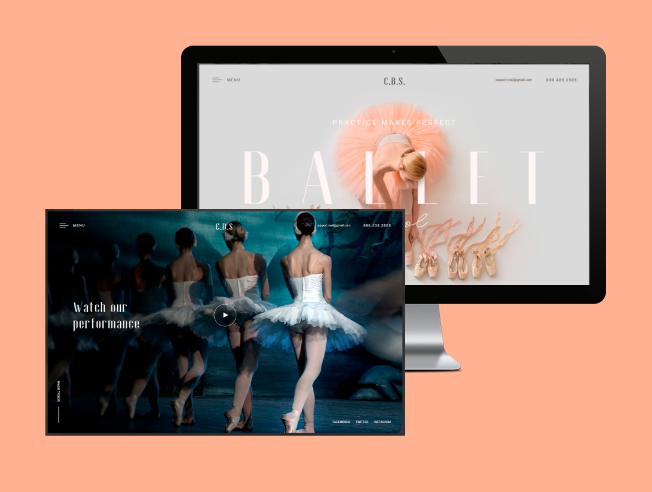
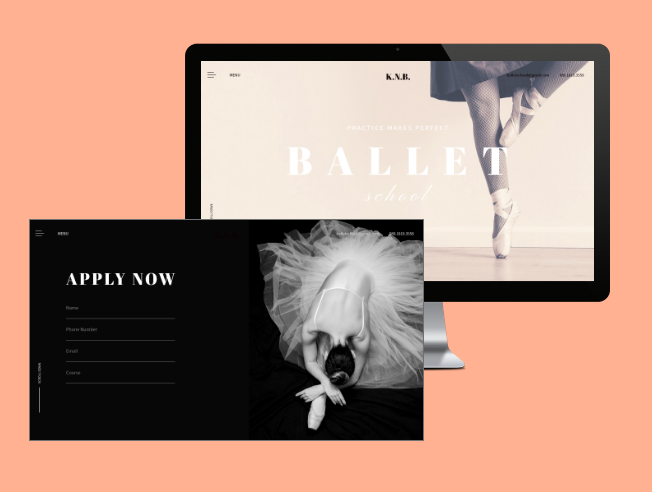
작업물 링크 수정

diff --git a/works.html b/works.html
@@ -50,7 +50,7 @@
                             <p class="explain">#html5&css3	#standard</p>
                         </div>
                     </div>
-                    <div class="box" onclick="window.open('images/works-HD.jpg','이미지','width=800, height=700,toolbar=no,directories=no,location=no,status=no,menubar=no,scrollbars=yes,resizable=yes,left=100px')">
+                    <div class="box" onclick="window.open('https://harteh.github.io/harley-davidson/')">
                         <div class="bgi"><img src="images/works-006.png" alt="할리데이비슨"></div>
                         <div class="txtTitle">
                             <p class="fn">design</p>
@@ -60,15 +60,15 @@
                     </div>
                 </div>
                 <div class="content">
-                    <div class="box">
+                    <div class="box" onclick="window.open('https://harteh.github.io/KNB/')">
                         <div class="bgi"><img src="images/works-001.png" alt="발레교습소"></div>
                         <div class="txtTitle">
                             <p class="fn">renewal</p>
                             <p class="heading">Black Swan Dance</p>
-                            <p class="explain">#html5&css3 #responsive</p>
+                            <p class="explain">#진행중 #html5&css3 #responsive</p>
                         </div>                        
                     </div>
-                    <div class="box" onclick="window.open('https://wwf-team.github.io/WWF/')">                        
+                    <div class="box" onclick="window.open('https://harteh.github.io/wwf-b/')">                        
                         <div class="bgi"><img src="images/works-002.png" alt="세계자연기금"></div>
                         <div class="txtTitle">
                             <p class="fn">team work</p>

diff --git a/css/style.css b/css/style.css
@@ -135,7 +135,7 @@ p.mail{
 
 
 #main-left{
-    height: 970px;
+    height: 100%;
     position: fixed;
     left: 70px;
     top: 0;
